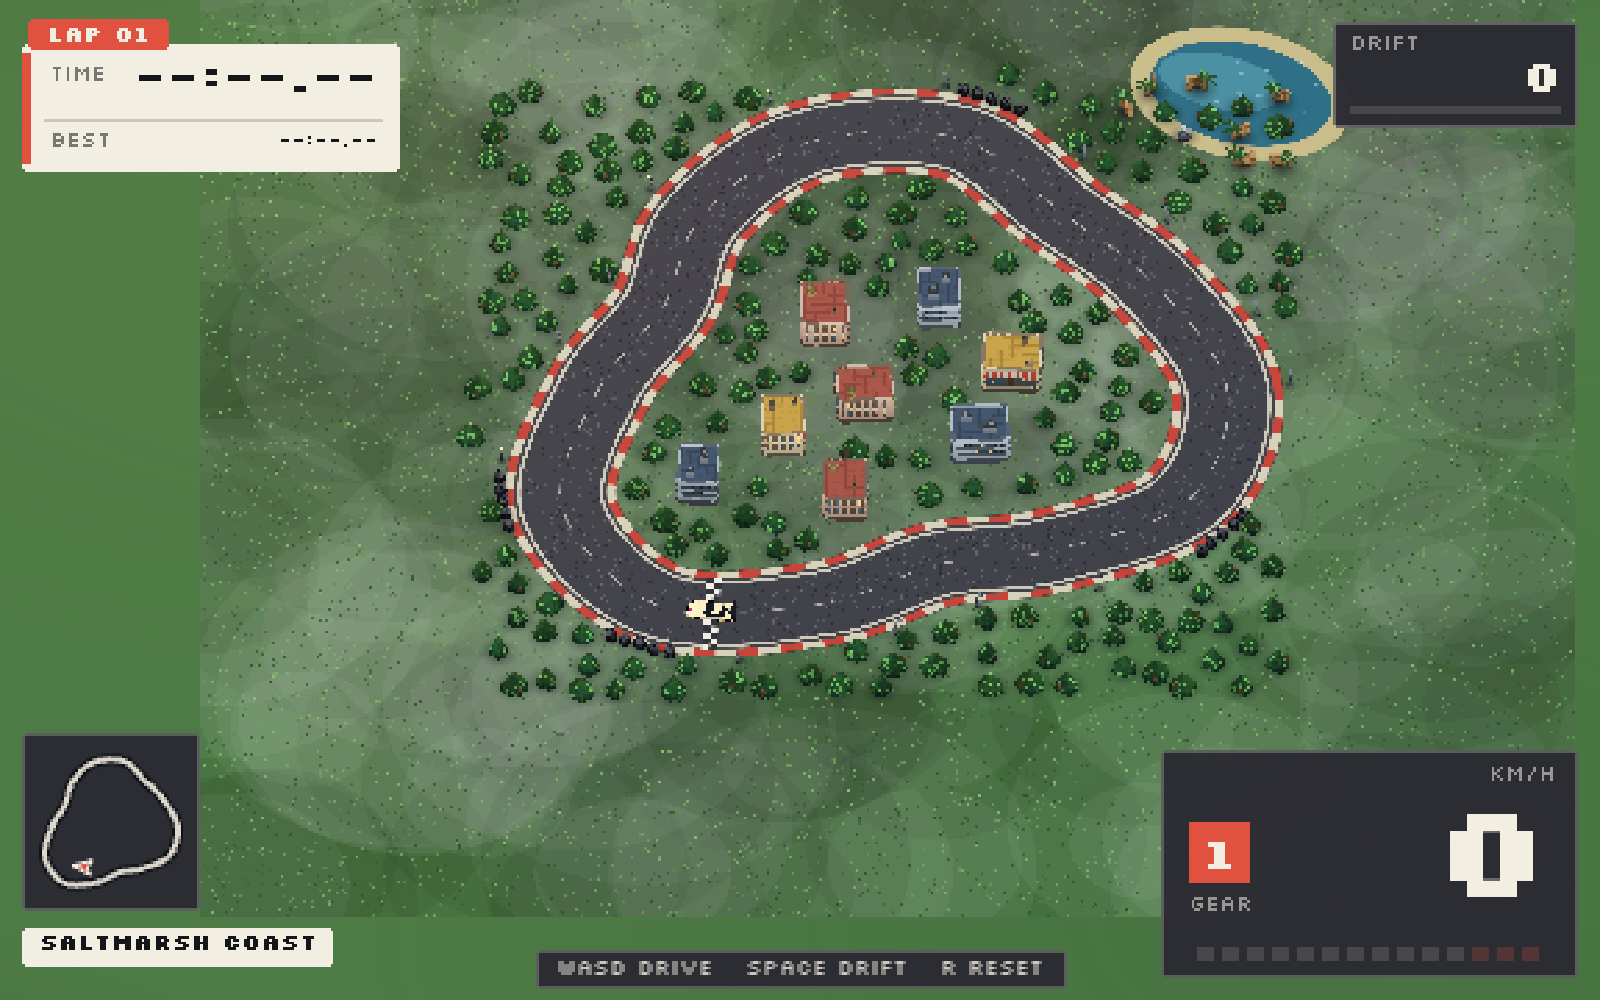
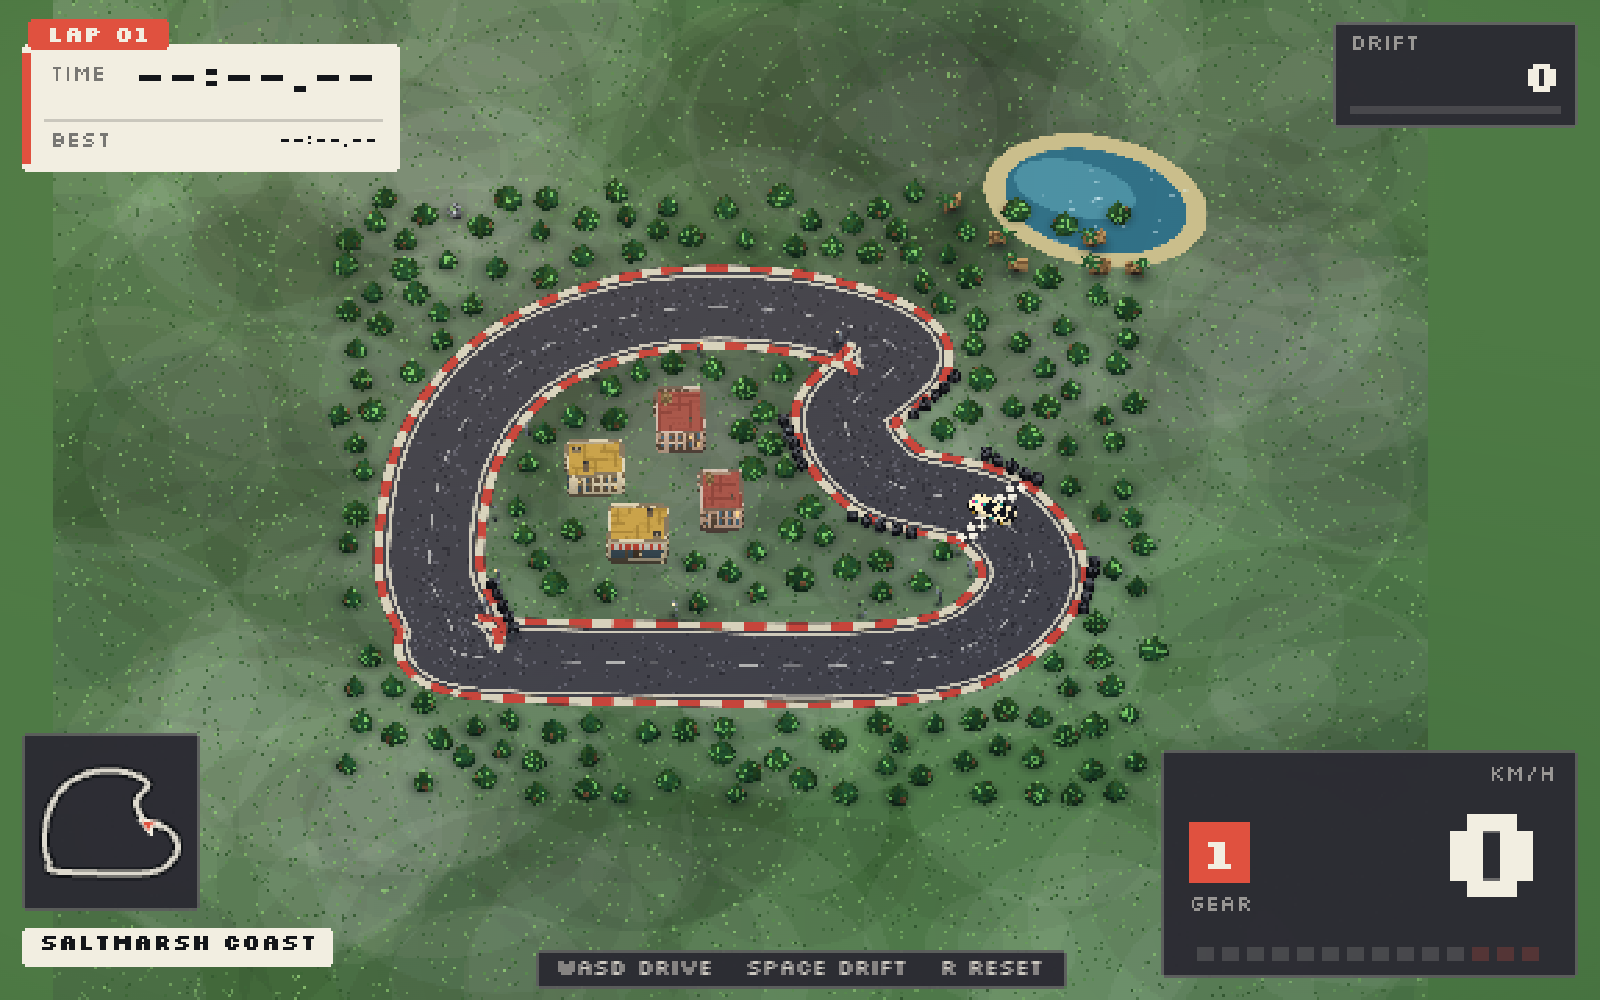
Spielberg-inspired coast circuit; minimap uses the full path so it matches

diff --git a/src/world.ts b/src/world.ts
@@ -53,9 +53,10 @@ export interface MapDef {
 export const MAPS: MapDef[] = [
   {
     id: 'coast', name: 'Saltmarsh Coast', roadHalf: 4.4,
-    ctrl: [[32.7, 0], [29, 13.9], [16.1, 20.2], [5, 22], [-6.1, 26.9], [-21.7, 27.2],
-      [-31.1, 15], [-27.6, 0], [-21.4, -10.3], [-17.9, -21.3], [-7.9, -30.7],
-      [6.7, -31.5], [16.8, -22.1], [25.6, -13.3]],
+    ctrl: [
+      [-26, 20], [-6, 21], [13, 21], [23, 18], [28, 10], [24, 2], [14, -2],
+      [10, -10], [15, -18], [5, -23], [-9, -23], [-21, -17], [-28, -6],
+      [-30, 8], [-28, 16]],
     palette: {
       grass: '#4f7c46', tones: ['#5b8c4e', '#3d6636', '#6fa05d', '#33582f', '#7fb367'],
       bladeA: '#8cc274', bladeB: '#356031',
@@ -575,7 +576,7 @@ export async function buildWorld(scene: THREE.Scene, mapId?: string): Promise<Wo
     group, colliders, roadAt, nearbyRoad, start, addSkid, clearSkid,
     name: map.name,
     mapId: map.id,
-    minimapPath: track.filter((_, i) => i % 12 === 0),
+    minimapPath: track.filter((_, i) => i % 4 === 0),
     track,
     update() {
       if (skidDirty) {
